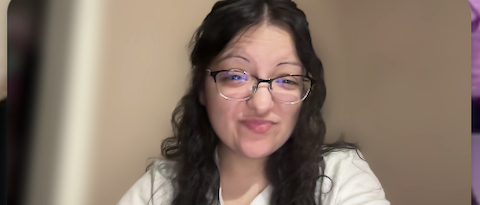
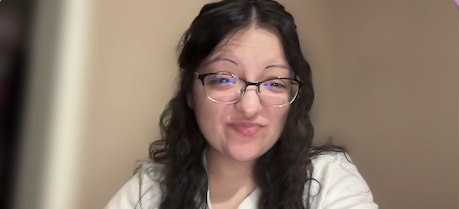
add images for tech stack, add image of me

diff --git a/src/components/developer-card/TheeCard.jsx b/src/components/developer-card/TheeCard.jsx
@@ -1,8 +1,12 @@
+import Image from "../Image";
+
 export default function TheeCard() {
+  const me = "/images/me.png";
   const title = "Frontend Developer / UI Developer";
   return (
     <section className="max-w-sm md:max-w-2xl ml-20 flex p-4 flex-col justify-center items-center">
       <div className=" bg-white rounded text-center border-4 border-neonGreen p-2 mt-40">
+        <Image image={me} className="p-2 rounded-2xl w-80 mx-auto" />
         <h1 className="font-sig text-5xl">Davonne Vigil</h1>
         <p className="text-2xl font-mono">{title}</p>
       </div>
